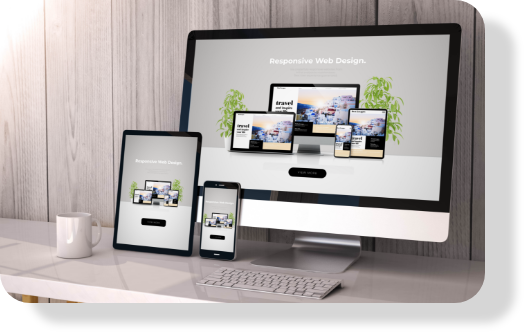
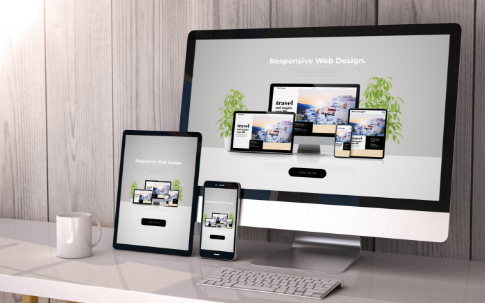
途中経過

diff --git a/src/components/layout/RightText.tsx b/src/components/layout/RightText.tsx
@@ -15,19 +15,20 @@ export default function RightText(props: Props){
       <div>
         <div className='lg:flex lg:justify-center h-96'>
           {/* <div className={`${props.bg} bg-cover bg-no-repeat w-5/12`}> */} 
-          <div className="text-center block lg:hidden w-auto">
-          <Image 
+          <div className="hidden lg:w-auto lg:block mr-10 py-10">
+          <img 
             src={`${props.image}`} 
             width={`${props.width}`} 
             height={`${props.height}`} 
             alt={`${props.alt_text}`} 
             decoding="async"
+            className="shadow-custom rounded-serviceImage"
             />
           </div>
-          <div className='lg:w-4/12 mr-10 py-20'>
+          <div className='lg:w-4/12 py-20 ml-10'>
             <span className="text-minimam text-yellow-main">{props.subTitle}</span>
             <h2 className="text-xl text-left w-auto text-green-700">{props.title}</h2>
-            <div className='text-base sm:mx-20 mt-12 lg:mt-0 lg:w-4/12 lg:text-xl'
+            <div className='text-base mt-6'
               dangerouslySetInnerHTML={{
                 __html: `${props.text}`,
               }}

diff --git a/src/components/layout/LeftText.tsx b/src/components/layout/LeftText.tsx
@@ -14,12 +14,13 @@ export default function LeftText(props: Props){
     <>
       <div className='lg:flex lg:justify-center h-96'>
         <div className='text-center block lg:hidden w-auto'>
-          <Image 
+          <img 
             src={`${props.image}`} 
             width={`${props.width}`} 
             height={`${props.height}`} 
             alt={`${props.alt_text}`} 
             decoding="async"
+            className="shadow-custom rounded-serviceImage"
             />
         </div>
         <div className="lg:w-4/12 mr-10 py-20">
@@ -33,13 +34,14 @@ export default function LeftText(props: Props){
           >
           </div>
         </div>
-        <div className='hidden lg:w-6/12 lg:block ml-10 py-10'>
-          <Image 
+        <div className='hidden lg:w-auto lg:block ml-10 py-10'>
+          <img 
             src={`${props.image}`} 
             width={`${props.width}`} 
             height={`${props.height}`} 
             alt={`${props.alt_text}`} 
             decoding="async"
+            className="shadow-custom rounded-serviceImage"
             />
         </div>
       </div>

diff --git a/tailwind.config.js b/tailwind.config.js
@@ -133,6 +133,9 @@ module.exports = {
         },
         ".text-shadow-none": {
           textShadow: "none"
+        },
+        ".shadow-custom": {
+          boxShadow: "30px 20px 8px rgba(0,0,0, 0.16)"
         }
       };
 
